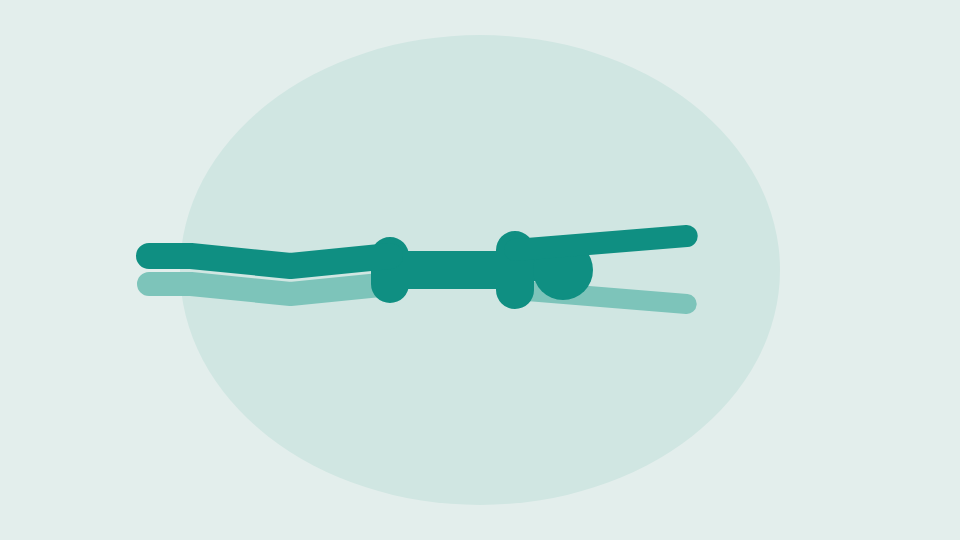
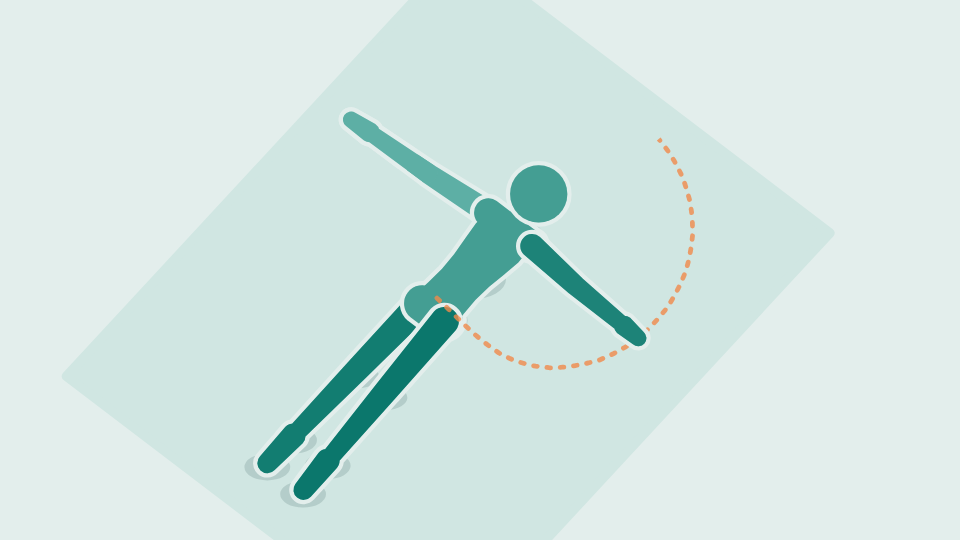
feat: add Blackburn exercise animation and related updates

Changed region(s): [[0.125, 0.2074, 0.75, 0.9481], [0.6875, 0.2667, 0.7188, 0.3259], [0.5, 0.6222, 0.5312, 0.6519]]

diff --git a/src/lib/rig3d.ts b/src/lib/rig3d.ts
@@ -157,6 +157,14 @@ export type Clip3D = {
    * behind the foot with it; the hand is drawn again on its own, over the limb it holds.
    */
   holds?: readonly HeldLimb[];
+  /**
+   * Hands that rest on the body, reached round from an arm on the far side of it, like the hands on
+   * the lower back in Blackburn. The arm goes behind the torso all the way through, as its shoulder
+   * end is, and its forearm and hand are drawn again on their own over the torso. Limbs are ordered
+   * whole, so otherwise the whole arm would come over the torso with the hand, its shoulder end
+   * drawn over the shoulder blade it's behind, and jump back behind it when the hand lifts off.
+   */
+  handsOnBody?: readonly ('rightHand' | 'leftHand')[];
   scenery?: readonly Block[];
   /**
    * A strap looped around the ball of this foot, with an end held in each hand. With a `hand`, that
@@ -221,7 +229,10 @@ export type FigureSlot = {
   d: string;
   /** The shape the background is drawn around, to keep the part apart from what's under it. The part's own shape, except for a hand drawn on its own. */
   outline: string;
-  /** A hand drawn on its own over a limb it holds (see `Clip3D.holds`), after its arm's own slot. */
+  /**
+   * A hand drawn on its own over a limb it holds (see `Clip3D.holds`), after its arm's own slot, or
+   * a forearm and hand over the torso (see `Clip3D.handsOnBody`).
+   */
   hand: boolean;
   /** From 0, furthest from the camera, to 1, nearest. */
   shade: number;
@@ -1199,6 +1210,8 @@ function phoneShape(skeleton: Skeleton, view: Mat3, mount: PhoneMount | undefine
 
 /** How far along a hand drawn on its own its outline starts, which keeps the outline off the wrist it joins. */
 const HELD_HAND_OUTLINE_FROM = 0.6;
+/** How far along the forearm from the elbow the outline of a forearm drawn on its own over the torso starts. */
+const RESTING_FOREARM_OUTLINE_FROM = 0.4;
 
 /** How close on screen two limbs' bones have to come for one to be drawn over the other: about a limb's thickness each. */
 const LIMB_OVERLAP = 2 * LIMB_RADIUS;
@@ -1240,7 +1253,9 @@ export function traceFigure(
   /** Pairs of limbs to keep the first behind the second, see `Clip3D.behind`. */
   forcedBehind?: Clip3D['behind'],
   /** Hands to draw again over the limb they hold, see `Clip3D.holds`. */
-  holds?: Clip3D['holds']
+  holds?: Clip3D['holds'],
+  /** Arms to put behind the torso with their forearms and hands drawn again over it, see `Clip3D.handsOnBody`. */
+  handsOnBody?: Clip3D['handsOnBody']
 ): FigureFrame {
   'worklet';
   const flat = (points: readonly Vec3[]): Vec3[] => {
@@ -1276,7 +1291,8 @@ export function traceFigure(
   // Each limb is under the torso (0) or over it (2), by where the two overlap on screen.
   const limb = (part: Part, points: Vec3[], isLeg: boolean) => {
     const depth = meanDepth(points);
-    const over = (forcedOver ? forcedOver.includes(part) : false) || overTorso(points, spine, thickness, isLeg ? spine[0] : neckBase, isLeg);
+    const resting = handsOnBody ? (part === 'rightArm' && handsOnBody.includes('rightHand')) || (part === 'leftArm' && handsOnBody.includes('leftHand')) : false;
+    const over = !resting && ((forcedOver ? forcedOver.includes(part) : false) || overTorso(points, spine, thickness, isLeg ? spine[0] : neckBase, isLeg));
     return { part, d: limbShape(points, isLeg ? LEG_RADII : ARM_RADII), depth, points, layer: over ? 2 : 0 };
   };
   const parts: { part: Part; d: string; depth: number; points: Vec3[]; layer: number }[] = [
@@ -1366,6 +1382,36 @@ export function traceFigure(
     });
   }
 
+  // A hand resting on the body goes over the torso with its forearm, and over the legs, which lie
+  // under the body's surface, but under the other arm, while the arm itself stays behind. The outline starts partway along the forearm, so it
+  // doesn't draw a line across the elbow where the forearm joins the rest of the arm.
+  if (handsOnBody) {
+    for (let i = 0; i < handsOnBody.length; i++) {
+      const isRight = handsOnBody[i] === 'rightHand';
+      const arm = isRight ? rightArm : leftArm;
+      const armPart: Part = isRight ? 'rightArm' : 'leftArm';
+      let own = -1;
+      let at = -1;
+      for (let k = 0; k < slots.length; k++) {
+        if (slots[k].hand) continue;
+        if (slots[k].part === armPart) own = k;
+        if (slots[k].part === 'torso') at = k;
+        else if (at >= 0 && (slots[k].part === 'rightLeg' || slots[k].part === 'leftLeg' || slots[k].part === 'head')) at = k;
+      }
+      if (own < 0 || at < 0) continue;
+      const [wide, narrow] = ARM_RADII[1];
+      const from = lerpVec(arm[1], arm[2], RESTING_FOREARM_OUTLINE_FROM);
+      slots.splice(at + 1, 0, {
+        part: armPart,
+        d: limbShape(arm.slice(1), ARM_RADII.slice(1)),
+        outline: capsule(from, lerp(wide, narrow, RESTING_FOREARM_OUTLINE_FROM), arm[2], narrow) + capsule(arm[2], ARM_RADII[2][0], arm[3], ARM_RADII[2][1]),
+        hand: true,
+        shade: slots[own].shade,
+        accent: slots[own].accent,
+      });
+    }
+  }
+
   // A hand holding a limb goes over it, wherever its arm is. Its outline starts partway along the
   // hand, so it's kept apart from what it holds without a line across its own wrist.
   if (holds) {
@@ -1443,7 +1489,7 @@ export function frameAt(clip: Clip3D, view: Mat3, timeMs: number): FigureFrame {
   const pose = poseAt3(clip, timeMs);
   const skeleton = solvePose(pose);
   const behind = pose.behind ? (clip.behind ? [...clip.behind, ...pose.behind] : pose.behind) : clip.behind;
-  return traceFigure(skeleton, view, clip.highlight, clip.strap, clip.phone, clip.phone ? phoneReading(clip, skeleton) : undefined, clip.over, behind, clip.holds);
+  return traceFigure(skeleton, view, clip.highlight, clip.strap, clip.phone, clip.phone ? phoneReading(clip, skeleton) : undefined, clip.over, behind, clip.holds, clip.handsOnBody);
 }
 
 function duration(clip: Clip3D): number {

diff --git a/src/data/exercise-animations-3d.ts b/src/data/exercise-animations-3d.ts
@@ -1573,3 +1573,95 @@ export const RESTING_COSSACK_SQUAT_3D: Clip3D = {
     ...alongArc(1800, RESTING_COSSACK_STEPS, (t) => cossackSink(1 - t)),
   ],
 };
+
+// --- Blackburn: lying face down, both straight arms lifted off the floor sweep from the sides to overhead ---
+
+/** How far the straight arms are lifted off the floor, and how far round they sweep overhead. */
+const BLACKBURN_LIFT = 14;
+const BLACKBURN_OVERHEAD = 168;
+/**
+ * Where the right wrist rests at the start and end: on the lower back, a little out from the spine,
+ * with the fingers toward the middle and the elbow bent up and out.
+ */
+const BLACKBURN_LOWER_BACK: Vec3 = [15, 46, 20];
+/** The arms are straight by the time they've swept this far, straight out to the sides at 90. */
+const BLACKBURN_STRAIGHT_BY = 75;
+
+/**
+ * Face down with the head toward +x and the forehead just off the floor, the legs long with the tops
+ * of the feet on the floor. From the hands resting on the lower back (0), the arms lift off the back
+ * and sweep out to the sides, the elbows straightening on the way, then on round to overhead (1),
+ * held up off the floor the whole time.
+ */
+const blackburn = (t: number): Pose3 => {
+  const body: Pose3 = {
+    pelvis: [0, PRONE_PELVIS_Y, 0],
+    lean: 90,
+    neck: { flex: -12 },
+    rightLeg: { flex: 2.6, abduct: 2, ankle: -88 },
+    leftLeg: { flex: 2.6, abduct: 2, ankle: -88 },
+  };
+  const shoulder = solvePose(body).rightArm[0];
+  // The right hand's way from the shoulder to the lower back, as a sweep round from pointing down
+  // the side (negative is in behind the back), a lift off the floor and a reach.
+  const [dx, dy, dz] = [BLACKBURN_LOWER_BACK[0] - shoulder[0], BLACKBURN_LOWER_BACK[1] - shoulder[1], BLACKBURN_LOWER_BACK[2] - shoulder[2]];
+  const backReach = Math.hypot(dx, dy, dz);
+  const backSweep = (Math.atan2(dz, -dx) * 180) / Math.PI;
+  const backLift = (Math.asin(dy / backReach) * 180) / Math.PI;
+
+  const degrees = mix(backSweep, BLACKBURN_OVERHEAD, t);
+  const straight = smooth(Math.min(1, (degrees - backSweep) / (BLACKBURN_STRAIGHT_BY - backSweep)));
+  const sweep = radians(degrees);
+  const lift = radians(mix(backLift, BLACKBURN_LIFT, straight));
+  const reach = mix(backReach, ARM_REACH, straight);
+  const wrist = (side: 1 | -1): Vec3 => [
+    shoulder[0] - reach * Math.cos(sweep) * Math.cos(lift),
+    shoulder[1] + reach * Math.sin(lift),
+    side * (shoulder[2] + reach * Math.sin(sweep) * Math.cos(lift)),
+  ];
+  // On the back the fingers point in toward the spine and a little down; once the arm is straight
+  // the hand carries on from it.
+  const fingers = (side: 1 | -1): Vec3 => {
+    const along = wrist(side);
+    return mix3([-0.3, -0.3, -side], [(along[0] - shoulder[0]) / reach, (along[1] - shoulder[1]) / reach, (along[2] - side * shoulder[2]) / reach], straight);
+  };
+  return {
+    ...body,
+    pins: {
+      rightHand: { at: wrist(1), toward: fingers(1), pole: [-0.3, 0.4, 1] },
+      leftHand: { at: wrist(-1), toward: fingers(-1), pole: [-0.3, 0.4, -1] },
+    },
+  };
+};
+const BLACKBURN_DOWN = blackburn(0);
+const BLACKBURN_UP = blackburn(1);
+/** Pinned hands go straight between keyframes, cutting across the arc, so it takes this many for the elbows to stay all but straight. */
+const BLACKBURN_STEPS = 32;
+
+export const BLACKBURN_3D: Clip3D = {
+  view: '3d',
+  // From above and behind the right foot: the arms sweep across the floor like the hands of a
+  // clock, both clear of the body, and the mat and shadows still show the figure lying down.
+  // Straight from behind the feet the sweep reads better, but the figure looks like it's standing.
+  camera: { yaw: -50, pitch: 65 },
+  highlight: ['rightArm', 'leftArm'],
+  // The arms are held up off the floor, over the legs lying on it. By the sides a hand is beside
+  // the hip, where by depth alone each arm would go under its leg partway into the sweep.
+  behind: [
+    ['rightLeg', 'rightArm'],
+    ['leftLeg', 'leftArm'],
+  ],
+  // The left arm, on the far side, stays behind the body, its shoulder end under the shoulder
+  // blade, while its forearm and hand lie over the back.
+  handsOnBody: ['leftHand'],
+  trail: 'rightHand',
+  // Halfway, with the arms straight out to the sides.
+  stillFrame: 1 + BLACKBURN_STEPS / 2,
+  keyframes: [
+    { ms: 0, pose: BLACKBURN_DOWN },
+    { ms: 400, pose: BLACKBURN_DOWN },
+    ...alongArc(2400, BLACKBURN_STEPS, blackburn),
+    { ms: 400, pose: BLACKBURN_UP },
+    ...alongArc(2400, BLACKBURN_STEPS, (t) => blackburn(1 - t)),
+  ],
+};

diff --git a/src/lib/rig3d.test.ts b/src/lib/rig3d.test.ts
@@ -6,6 +6,7 @@ import {
   BACK_LYING_REVERSE_PIGEON_3D,
   BEHIND_THE_BACK_CHEST_OPENER_3D,
   BELLY_DOWN_FOOT_SPLAY_3D,
+  BLACKBURN_3D,
   BOTTOM_SQUAT_3D,
   BOTTOM_SQUAT_ROTATION_3D,
   CAT_COW_3D,
@@ -400,6 +401,14 @@ describe('3D clips', () => {
       });
     });
 
+    it('draws as many parts as the figure component makes room for', () => {
+      // `exercise-figure-3d.tsx` sets up one shape for each of the six parts of the body, and one more
+      // for each hand a clip draws on its own. A part beyond that would never be drawn.
+      const view = viewOf(clip.camera);
+      const expected = 6 + (clip.holds?.length ?? 0) + (clip.handsOnBody?.length ?? 0);
+      for (let t = 0; t <= durationOf(clip); t += 100) expect(frameAt(clip, view, t).slots).toHaveLength(expected);
+    });
+
     it('keeps every joint above the floor', () => {
       for (const skeleton of skeletons) {
         for (const joint of joints(skeleton)) expect(joint[1]).toBeGreaterThanOrEqual(8);
@@ -765,6 +774,49 @@ describe('3D clips', () => {
     expect(apart(start)).toBeCloseTo(start.rightLeg[1][2] - start.leftLeg[1][2]);
     expect(apart(fallen)).toBeGreaterThan(apart(start) + 2 * SKELETON.shin * Math.sin((40 * Math.PI) / 180));
     expect(fallen.rightLeg[2][1]).toBeLessThan(start.rightLeg[2][1] - 20);
+  });
+
+  it('sweeps both arms, held off the floor, from the hands on the lower back to straight overhead in blackburn', () => {
+    const skeletons = samples(BLACKBURN_3D).map(solvePose);
+    /** How far round from pointing down by the side an arm is, seen from above: negative is in over the back. */
+    const swept = (arm: Vec3[]) => (Math.atan2((arm[2][2] - arm[0][2]) * Math.sign(arm[0][2]), arm[0][0] - arm[2][0]) * 180) / Math.PI;
+    for (const { rightArm, leftArm, spine } of skeletons) {
+      for (const arm of [rightArm, leftArm]) {
+        // Held up off the floor the whole way, higher at the hand than the shoulder, and straight
+        // from out at the sides on.
+        expect(arm[2][1]).toBeGreaterThan(arm[0][1] + 20);
+        if (swept(arm) >= 75) expect(angleAt(arm[0], arm[1], arm[2])).toBeGreaterThan(170);
+      }
+      // Both arms move together, mirroring each other.
+      rightArm.forEach((joint, i) => expect(distance(joint, [leftArm[i][0], leftArm[i][1], -leftArm[i][2]])).toBeCloseTo(0));
+      // Lying flat.
+      for (const point of spine) expect(point[1]).toBeCloseTo(spine[0][1]);
+    }
+    // It starts and ends with the hands resting on the lower back, elbows bent and out to the sides.
+    for (const { rightArm, leftArm, spine } of [skeletons[0], skeletons[skeletons.length - 1]]) {
+      for (const arm of [rightArm, leftArm]) {
+        expect(arm[2][0]).toBeGreaterThan(spine[0][0]);
+        expect(arm[2][0]).toBeLessThan(spine[0][0] + SKELETON.torso / 3);
+        expect(Math.abs(arm[2][2])).toBeLessThan(25);
+        expect(arm[2][1]).toBeGreaterThan(spine[0][1] + 20);
+        expect(angleAt(arm[0], arm[1], arm[2])).toBeLessThan(120);
+        expect(Math.abs(arm[1][2])).toBeGreaterThan(Math.abs(arm[0][2]));
+      }
+    }
+    // Out to the sides partway, then on to overhead.
+    const sweeps = skeletons.map(({ rightArm }) => swept(rightArm));
+    expect(Math.min(...sweeps)).toBeLessThan(0);
+    expect(Math.max(...sweeps)).toBeGreaterThan(160);
+    expect(swept(solvePose(BLACKBURN_3D.keyframes[BLACKBURN_3D.stillFrame].pose).rightArm)).toBeGreaterThan(75);
+    expect(swept(solvePose(BLACKBURN_3D.keyframes[BLACKBURN_3D.stillFrame].pose).rightArm)).toBeLessThan(95);
+    // Nothing ever changes places. The far arm stays behind the body, its shoulder end under the
+    // shoulder blade, with its forearm and hand drawn again over the back, over the legs and under
+    // the near arm; the near arm is over everything.
+    expect(new Set(drawOrders(BLACKBURN_3D))).toEqual(new Set(['leftLeg leftArm torso head rightLeg leftArm hand rightArm']));
+    // Overhead, the hands are either side of the head, clear of it.
+    const up = skeletons[sweeps.indexOf(Math.max(...sweeps))];
+    expect(up.rightArm[2][0]).toBeGreaterThan(up.head[0]);
+    expect(up.rightArm[2][2] - up.head[2]).toBeGreaterThan(SKELETON.head + 10);
   });
 
   it('sinks from standing into a deep squat with the heels down and the elbows inside the knees in bottom squat', () => {

diff --git a/src/components/exercise-figure-3d.tsx b/src/components/exercise-figure-3d.tsx
@@ -30,7 +30,10 @@ const COLORS = {
 /** How far the background shows around each part of the body, so limbs that cross stay apart. */
 const OUTLINE = 4.5;
 
-/** One for each part of the body: the torso, the head and the four limbs. A clip adds one for each hand it draws on its own. */
+/**
+ * One for each part of the body: the torso, the head and the four limbs. A clip adds one for each
+ * hand it draws on its own, holding a limb (`holds`) or resting on the body (`handsOnBody`).
+ */
 const BODY_SLOTS = 6;
 
 /**
@@ -138,7 +141,10 @@ export function ExerciseFigure3D({ clip, playing = true, paused = false }: { cli
   const time = useClipTime(clip, playing, paused);
   const stage = useMemo(() => stageClip(clip), [clip]);
   const view = stage.view;
-  const slots = useMemo(() => Array.from({ length: BODY_SLOTS + (clip.holds?.length ?? 0) }, (_, index) => index), [clip]);
+  const slots = useMemo(
+    () => Array.from({ length: BODY_SLOTS + (clip.holds?.length ?? 0) + (clip.handsOnBody?.length ?? 0) }, (_, index) => index),
+    [clip]
+  );
 
   const frame = useDerivedValue(() => frameAt(clip, view, time.get()));
   const shadow = useAnimatedProps(() => ({ d: frame.get().shadow }));

diff --git a/src/data/exercises.ts b/src/data/exercises.ts
@@ -10,6 +10,7 @@ import {
   ANKLE_MOBILIZATION_3D,
   BACK_LYING_REVERSE_PIGEON_3D,
   BEHIND_THE_BACK_CHEST_OPENER_3D,
+  BLACKBURN_3D,
   BELLY_DOWN_FOOT_SPLAY_3D,
   BOTTOM_SQUAT_3D,
   BOTTOM_SQUAT_ROTATION_3D,
@@ -25,7 +26,6 @@ import {
 } from './exercise-animations-3d';
 
 import {
-  BLACKBURN,
   BUTTERFLY,
   COBRA_TO_PRAYER,
   COUCH_STRETCH,
@@ -376,7 +376,7 @@ const ALL_EXERCISES: Exercise[] = [
       'Keeping them lifted, sweep your arms slowly from by your sides up overhead and back',
     ],
     photo: require('@/assets/images/exercises/blackburn.png'),
-    animation: BLACKBURN,
+    animation: BLACKBURN_3D,
     active: true,
     oneMinuteOnly: true,
   },

diff --git a/README.md b/README.md
@@ -70,7 +70,7 @@ The old engine poses a flat figure in screen coordinates. Anything moving toward
 - **Pins** hold a wrist or ankle at a spot in the room (hands and feet planted on the floor); the elbow or knee is solved so the bones keep their length. Pin a limb in every pose of a clip or in none.
 - **The room**: x points the way an unturned figure faces, y is up from the floor at 0, z is out to the figure's right. Lengths match the old scene (the head's radius is 30, a shin 100).
 - **The camera** is per clip: `yaw` 0 looks at the figure's right side, 90 at its front, 180 at its left; `pitch` 0 is level with the floor, 90 looks straight down. The frame is fitted to the whole movement, so the figure fills it; `fit: 'upper'` frames from the pelvis up and `fit: 'lower'` the pelvis and legs (knee to wall, where the arms on the wall are left out of the frame).
-- **Draw order** is by depth every frame, and parts are shaded darker the nearer they are, with a background-colored outline so crossing limbs stay apart. The head is ordered against the part of a limb right beside it rather than the limb's average depth, so a head dropping between the arms (cat cow) stays behind the near arm. Limbs go over or under the torso the same way, by where they overlap it: the side of the body the shoulder or hip is on, unless part of the limb comes out clear of the torso's surface further out (an arm across the chest). Passing the middle of the torso isn't enough, or a far thigh lifting forward (marching) flips over the hips partway up. Averages put the high chest in front of a whole leg below it when the camera looks down, which tucked a leg swinging back behind the hips. Square to the camera (a figure seen straight from the front), arms go over the torso and legs under the hips. A clip can name limbs that stay over the torso regardless (`over`): the 90 to 90 rotations do for both legs, whose thighs come off the front of the hips toward the camera and lie out to the side without ever coming clear of them. Turn the camera a little toward the arm or leg that moves if the still one should tuck behind its shoulder or hip, as the shoulder tests do. The head goes over the torso unless the neck points well away from the camera; by average depth, a body lying away from the camera (overhead reach) covered the head and the neck showed through it. Two limbs on the same side of the torso that overlap go by which is in front where they cross, too: hands holding a raised shin (knee to chest) are in front of it there, though the leg lifted toward a camera above it is nearer on average. Where a hand moving to its target would really pass behind a limb, the order follows that, so route it around with a keyframe (knee to chest opens the hands either side of the knee before closing them on the shin). Where two limbs stay against each other, which is nearer is too close to call and they swap places from frame to frame, so a clip can say (`behind: [['rightArm', 'rightLeg']]` draws the first behind the second whenever both are on the same side of the torso): the bottom squat rotation does, to keep both arms in front of the legs. Limbs that really change sides partway through take `behind` on the pose instead, which holds on the way from that pose to the next: in squat to stand the arms hang outside the thighs and end up inside the knees, so the poses from halfway into the fold on say so, and the change comes while the hands are swinging forward clear of the legs. Put such a change where the two limbs are well apart on screen, never where they overlap. The bottom squat names its thighs in `over`, so they stay over the hips standing as well as squatting rather than coming over them partway down, and its arms are `behind`-ordered in front of the thighs, so the elbows show pressing on the knees. Limbs are ordered whole, so an arm that goes behind a knee takes its hand with it; `holds: [{ hand: 'rightHand', limb: 'rightLeg' }]` draws that hand again on its own, over the limb it holds (squat to stand, where the fingers hook over the toes).
+- **Draw order** is by depth every frame, and parts are shaded darker the nearer they are, with a background-colored outline so crossing limbs stay apart. The head is ordered against the part of a limb right beside it rather than the limb's average depth, so a head dropping between the arms (cat cow) stays behind the near arm. Limbs go over or under the torso the same way, by where they overlap it: the side of the body the shoulder or hip is on, unless part of the limb comes out clear of the torso's surface further out (an arm across the chest). Passing the middle of the torso isn't enough, or a far thigh lifting forward (marching) flips over the hips partway up. Averages put the high chest in front of a whole leg below it when the camera looks down, which tucked a leg swinging back behind the hips. Square to the camera (a figure seen straight from the front), arms go over the torso and legs under the hips. A clip can name limbs that stay over the torso regardless (`over`): the 90 to 90 rotations do for both legs, whose thighs come off the front of the hips toward the camera and lie out to the side without ever coming clear of them. Turn the camera a little toward the arm or leg that moves if the still one should tuck behind its shoulder or hip, as the shoulder tests do. The head goes over the torso unless the neck points well away from the camera; by average depth, a body lying away from the camera (overhead reach) covered the head and the neck showed through it. Two limbs on the same side of the torso that overlap go by which is in front where they cross, too: hands holding a raised shin (knee to chest) are in front of it there, though the leg lifted toward a camera above it is nearer on average. Where a hand moving to its target would really pass behind a limb, the order follows that, so route it around with a keyframe (knee to chest opens the hands either side of the knee before closing them on the shin). Where two limbs stay against each other, which is nearer is too close to call and they swap places from frame to frame, so a clip can say (`behind: [['rightArm', 'rightLeg']]` draws the first behind the second whenever both are on the same side of the torso): the bottom squat rotation does, to keep both arms in front of the legs. Limbs that really change sides partway through take `behind` on the pose instead, which holds on the way from that pose to the next: in squat to stand the arms hang outside the thighs and end up inside the knees, so the poses from halfway into the fold on say so, and the change comes while the hands are swinging forward clear of the legs. Put such a change where the two limbs are well apart on screen, never where they overlap. The bottom squat names its thighs in `over`, so they stay over the hips standing as well as squatting rather than coming over them partway down, and its arms are `behind`-ordered in front of the thighs, so the elbows show pressing on the knees. Limbs are ordered whole, so an arm that goes behind a knee takes its hand with it; `holds: [{ hand: 'rightHand', limb: 'rightLeg' }]` draws that hand again on its own, over the limb it holds (squat to stand, where the fingers hook over the toes). A hand resting on the body, reached round from the far side of it, works the same way: `handsOnBody: ['leftHand']` keeps that arm behind the torso the whole way, its shoulder end under the shoulder blade, and draws its forearm and hand again over the torso and legs (Blackburn, where the hands start and end on the lower back). Ordered whole, the far arm comes over the back with its hand, shoulder end and all, and jumps behind the body partway through the sweep.
 - **Scenery** (`scenery`) is blocks with their sides square to the room, each from one corner to the opposite one: a wall, a box, a table top and its legs. They're drawn behind the figure, over the mat and the shadows, so pick a camera that looks past the figure at them, not through them. For a wall or box the figure faces, that means from a little behind (knee to wall and sit and reach use a negative `yaw`). Scenery doesn't change the frame, so a wall can run off the top of it; the mat reaches under anything standing on the floor. Blocks are drawn far side first along whichever axis separates them, not by the distance to their middles, which put a table's front legs over its top.
 - **A strap** (`strap: 'rightFoot'`) loops around the ball of a foot with an end in each hand, drawn over the figure. Pin both hands, and keep them the same distance from the foot in every pose so the strap doesn't stretch (`strapHeldAt` in the clips file does this for the straight leg raise). `strap: { foot: 'rightFoot', hand: 'rightHand' }` puts both ends in one hand instead, for pulling a foot out to the side (back lying reverse pigeon); pin that hand. The loop goes in a half circle around the side of the foot away from the hand, standing clear of the foot so it's drawn around it and not across it. It stands in for a band there: it's drawn the same, and doesn't stretch.
 - **What a test is measured with** goes where its instructions put it. `phone` holds it in a hand, in line with the forearm (`bone: 2`), or straps it to the upper arm or thigh (`bone: 0`) or forearm or shin (`bone: 1`), `at` that far along from the shoulder or hip, on the limb's `front`, `back`, `outside` or `inside`. The front of a leg is the kneecap's side, of an arm the side the elbow folds toward; a straight limb takes the body's front. A strapped phone has a strap around the limb behind it, like an armband, and on the far side of the limb it goes under it. Its screen shows the reading in seven-segment digits: how far the phone has turned since the clip's first pose, plus `startReading` (90 for overhead reach, which starts with the arm at the ceiling), so it reads the angle the test measures. `tape` lays a tape measure flat from one point to another, on the floor or a block's top, and the frame takes it in. Every flexibility test measured by angle has a phone, every one measured by distance a tape (`rig3d.test.ts` checks).
@@ -114,7 +114,7 @@ These block some clips from moving over (see the list below):
 - the close-up hand view (finger tendon glides)
 - the breathing and the head trailing the body that the old engine adds to side views
 - a camera that moves during a clip, and phase labels ("hold", "exhale")
-- a limb drawn half in front of the torso and half behind it: limbs are ordered as a whole, so thread the needle will need limbs split
+- a limb drawn half in front of the torso and half behind it, beyond a forearm resting on the body (`handsOnBody`): limbs are otherwise ordered as a whole, so thread the needle will need limbs split
 
 ### Migration status
 
@@ -150,16 +150,16 @@ Moved to the new engine:
 | Squat to stand | Library | `SQUAT_TO_STAND_3D` |
 | Cossack squat | Library, warm-up | `COSSACK_SQUAT_3D` |
 | Resting Cossack squat | Library | `RESTING_COSSACK_SQUAT_3D` |
+| Blackburn | Library | `BLACKBURN_3D` |
 
 Still on the old engine (clip names in `exercise-animations.ts`). Where a clip needs something the new engine doesn't have yet, it's noted.
 
-All ten flexibility tests are on the new engine. The last six to move (knee to wall, the two seated hip rotations, sit and reach, knee to chest and straight leg raise) haven't been checked on a device yet, so their old clips are still in `exercise-animations.ts`; delete them once they have. The same goes for the three 90 to 90 clips in the library (`NINETY_TO_NINETY_ROTATIONS` has to stay either way: windshield wipers with knee lift is built on it), and for the two pancake clips (`PANCAKE_UP` has to stay either way: the seated straddle side bend is built on it), and for the active straight leg raise, ankle mobilization, the behind the back chest opener, back lying reverse pigeon, belly down foot splay and the five squats (bottom squat, bottom squat rotation, squat to stand, Cossack squat and resting Cossack squat).
+All ten flexibility tests are on the new engine. The last six to move (knee to wall, the two seated hip rotations, sit and reach, knee to chest and straight leg raise) haven't been checked on a device yet, so their old clips are still in `exercise-animations.ts`; delete them once they have. The same goes for the three 90 to 90 clips in the library (`NINETY_TO_NINETY_ROTATIONS` has to stay either way: windshield wipers with knee lift is built on it), and for the two pancake clips (`PANCAKE_UP` has to stay either way: the seated straddle side bend is built on it), and for the active straight leg raise, ankle mobilization, the behind the back chest opener, back lying reverse pigeon, belly down foot splay, the five squats (bottom squat, bottom squat rotation, squat to stand, Cossack squat and resting Cossack squat) and Blackburn.
 
 Library (`src/data/exercises.ts`):
 
 | Exercise | Clip | Needs |
 |---|---|---|
-| Blackburn | `BLACKBURN` | |
 | Butterfly | `BUTTERFLY` | |
 | Cobra to prayer | `COBRA_TO_PRAYER` | |
 | Couch stretch | `COUCH_STRETCH` | |
